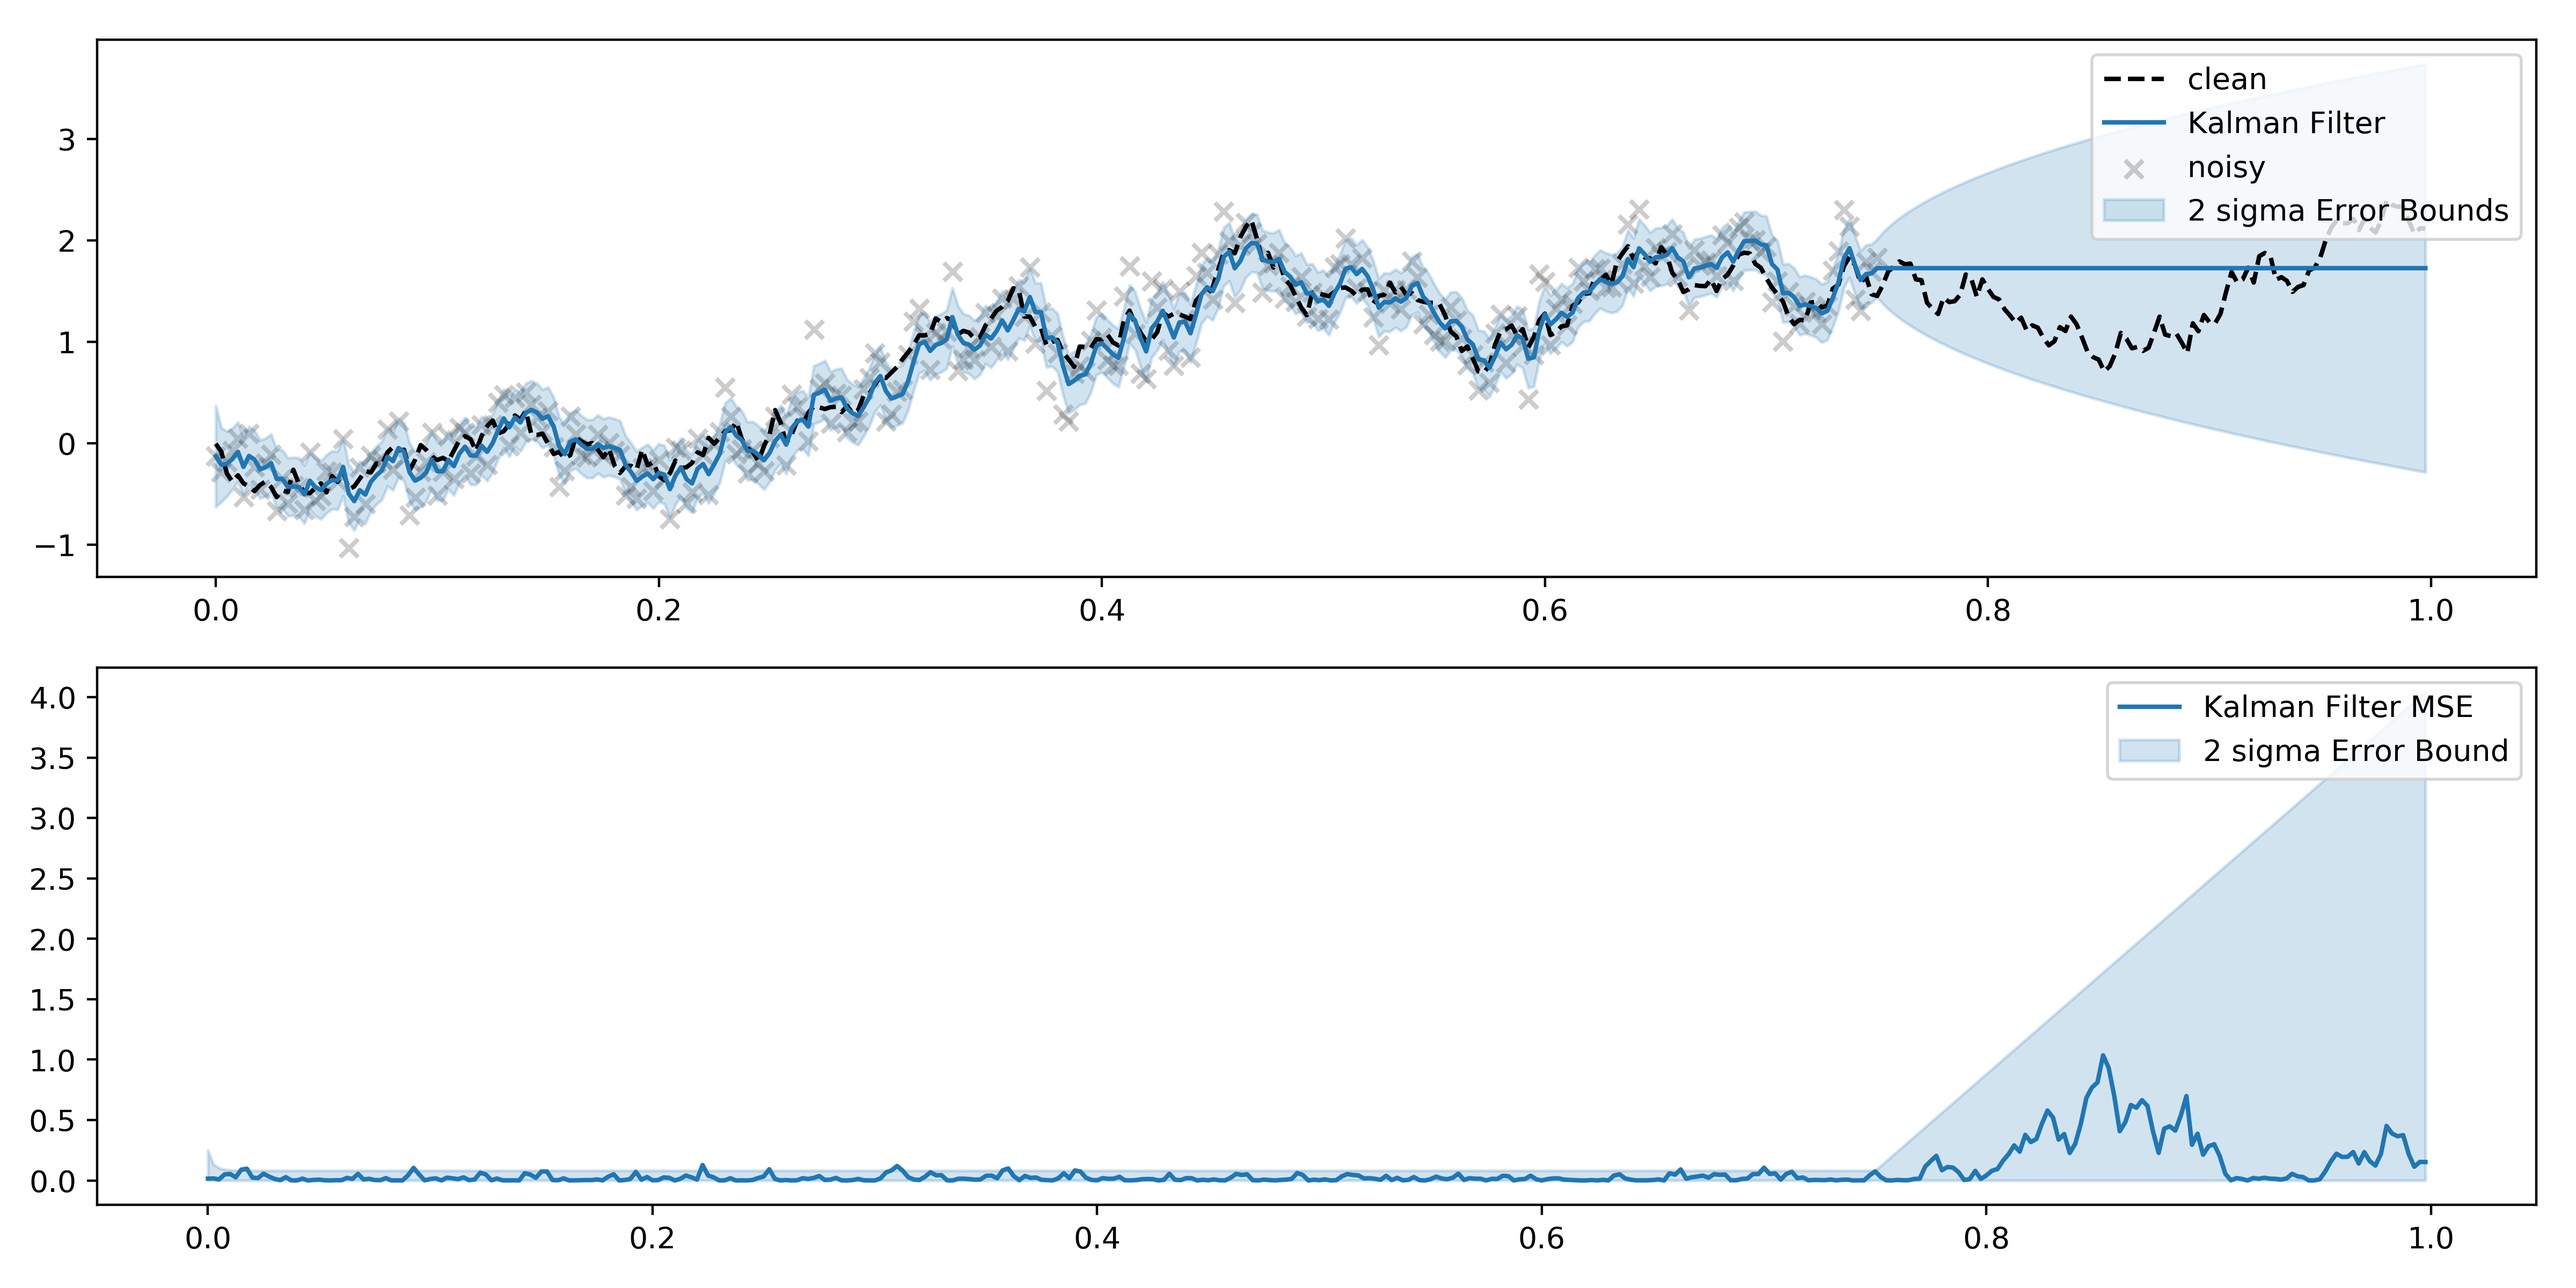
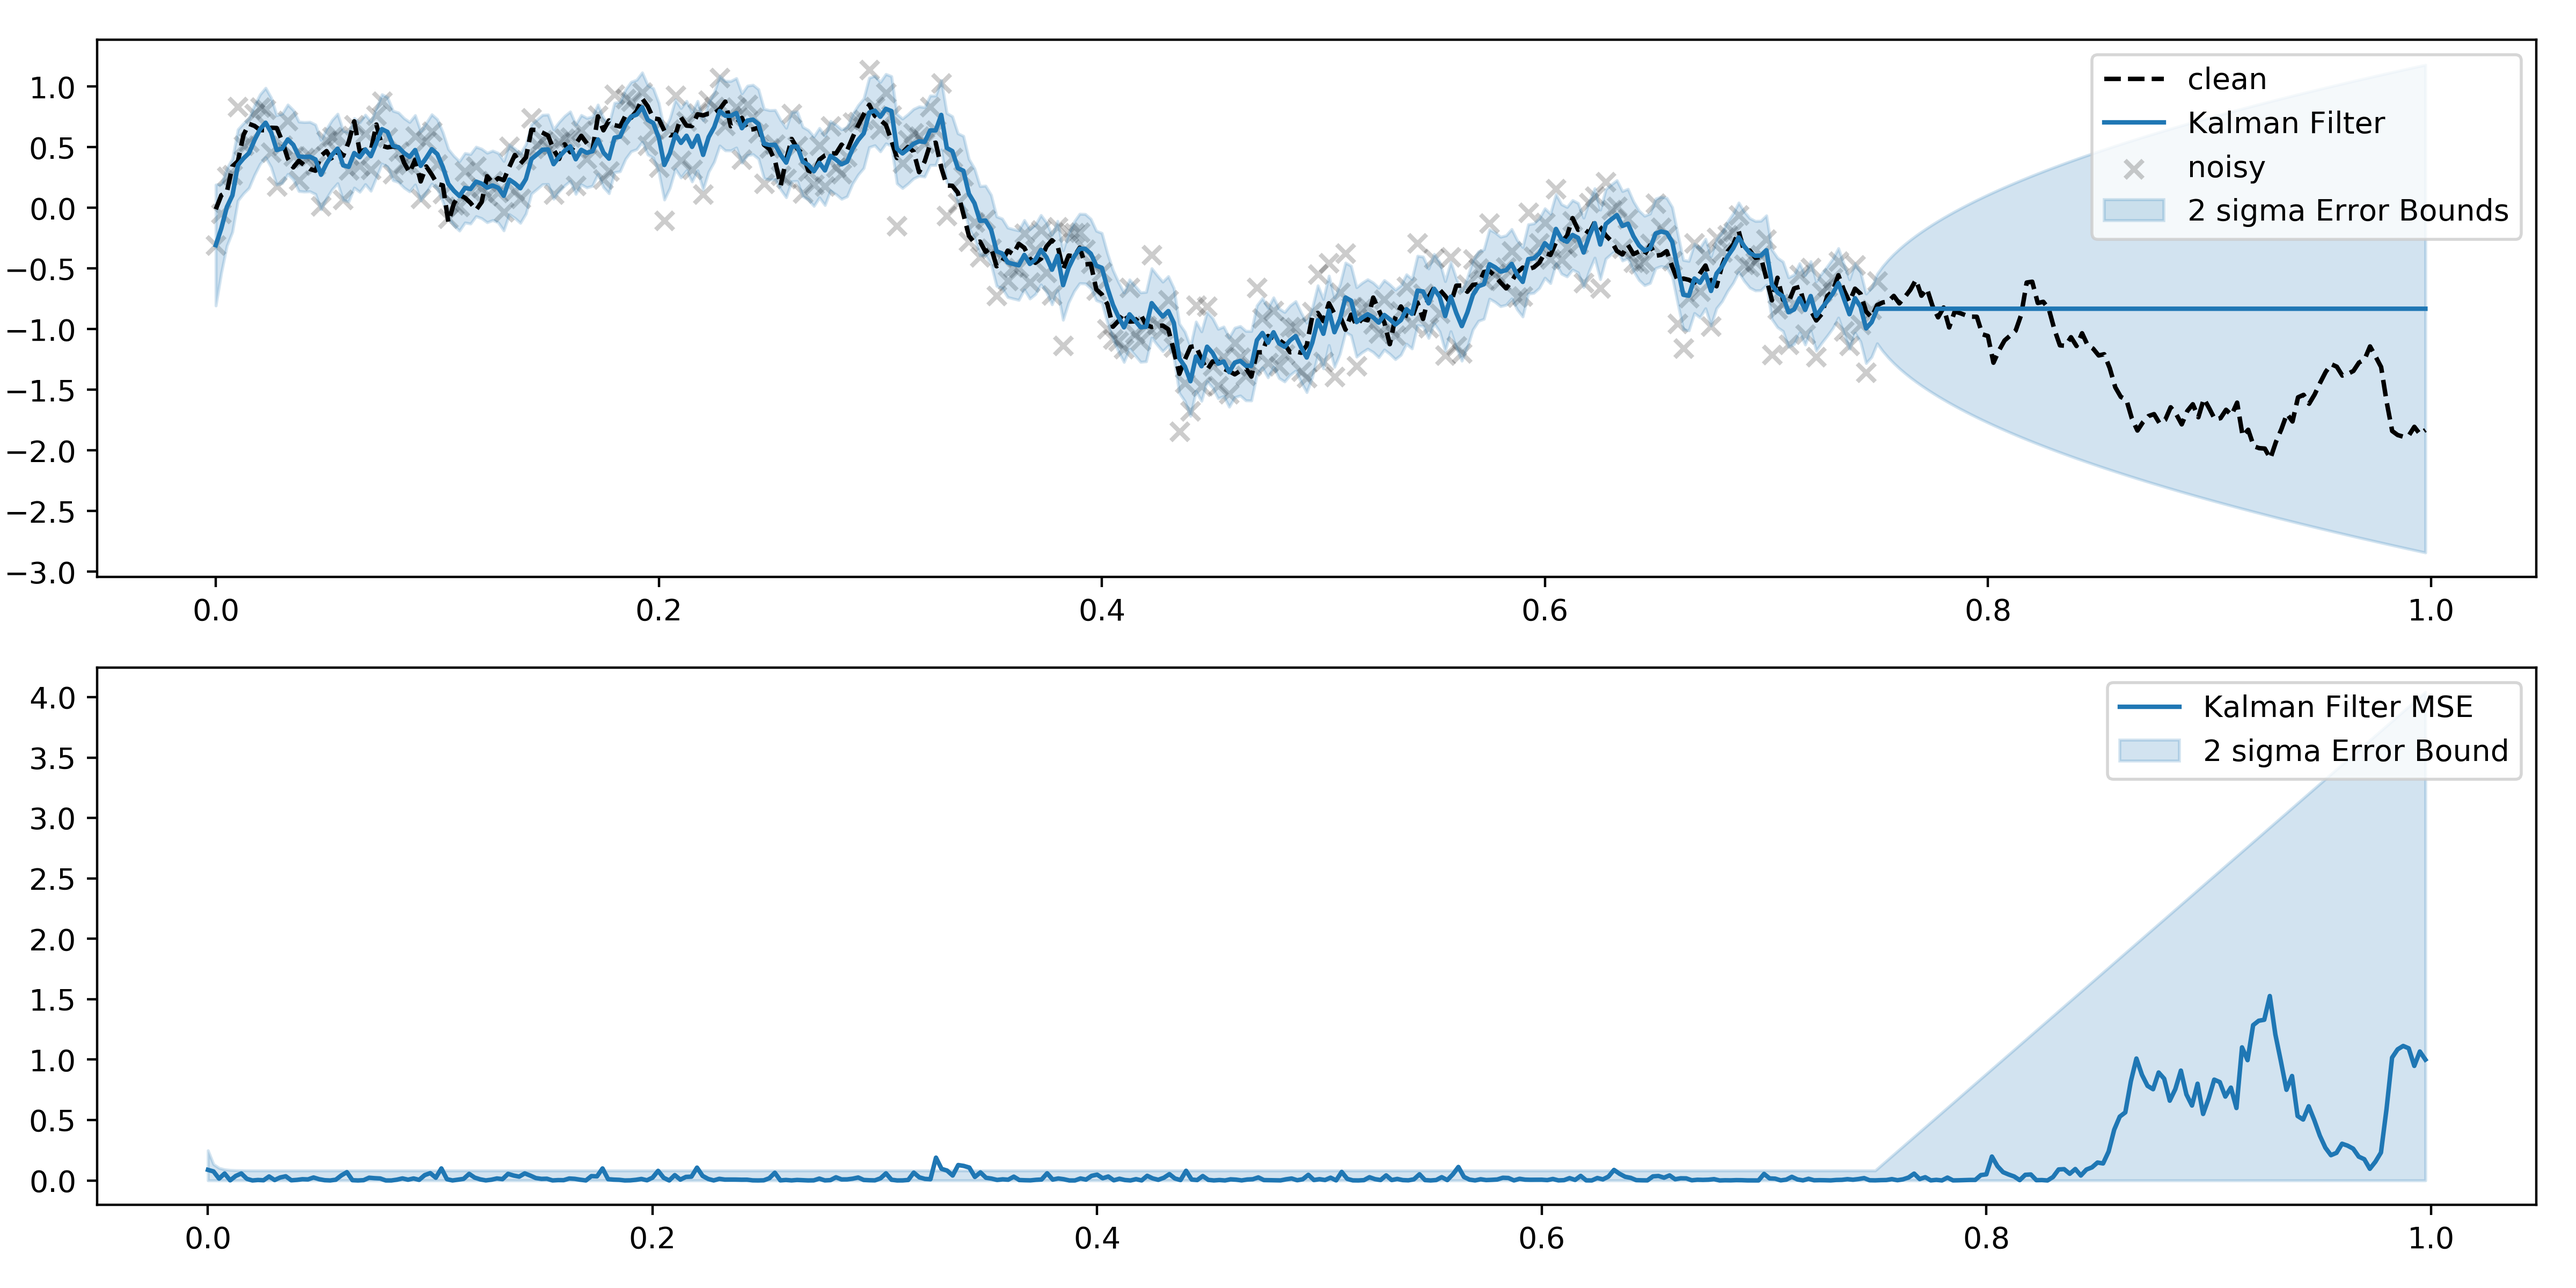
.

diff --git a/KalmanFilters.py b/KalmanFilters.py
@@ -5,8 +5,9 @@ import theano.tensor as T
 import theano.gradient as G
 
 import lasagne
-from lasagne.layers import InputLayer, DenseLayer, \
-                           get_output, get_all_params
+from lasagne.layers import InputLayer, ReshapeLayer, DenseLayer, \
+                           get_output, get_all_params, \
+                           get_all_param_values, set_all_param_values
 from lasagne.nonlinearities import rectify, linear
 from lasagne.objectives import squared_error
 from lasagne.regularization import regularize_network_params, l2 as L2
@@ -22,64 +23,64 @@ class BrownianFilter:
                  motion_transition      = None,
                  measurement_transition = None):
 
-       self.N = len(state.split(' '))
-       self.M = len(measurement.split(' '))
+        self.N = len(state.split(' '))
+        self.M = len(measurement.split(' '))
 
 
-       self.X, self.Z         = T.fvectors('X','Z')
-       self.P, self.Q, self.R = T.fmatrices('P','Q','R')
-       self.F, self.H         = T.matrices('F','H')
-       self.dt                = T.scalar('dt')
+        self.X, self.Z         = T.fvectors('X','Z')
+        self.P, self.Q, self.R = T.fmatrices('P','Q','R')
+        self.F, self.H         = T.matrices('F','H')
+        self.dt                = T.scalar('dt')
 
 
-       self.X_  = T.dot(self.F, self.X)
-       self.fX_ = G.jacobian(T.flatten(self.X_), self.X)
-       self.P_  = T.dot(T.dot(self.fX_, self.P), T.transpose(self.fX_)) + self.dt * self.Q
+        self.X_  = T.dot(self.F, self.X)
+        self.fX_ = G.jacobian(T.flatten(self.X_), self.X)
+        self.P_  = T.dot(T.dot(self.fX_, self.P), T.transpose(self.fX_)) + self.dt * self.Q
 
-       self.h = T.dot(self.H, self.X_)
-       self.y = self.Z - self.h
+        self.h = T.dot(self.H, self.X_)
+        self.y = self.Z - self.h
 
-       self.hX_ = G.jacobian(self.h, self.X_)
+        self.hX_ = G.jacobian(self.h, self.X_)
 
-       self.matrix_inv = T.nlinalg.MatrixInverse()
+        self.matrix_inv = T.nlinalg.MatrixInverse()
 
-       self.S = T.dot(T.dot(self.hX_, self.P_), T.transpose(self.hX_)) + self.R
-       self.K = T.dot(T.dot(self.P_, T.transpose(self.hX_)), self.matrix_inv(self.S))
+        self.S = T.dot(T.dot(self.hX_, self.P_), T.transpose(self.hX_)) + self.R
+        self.K = T.dot(T.dot(self.P_, T.transpose(self.hX_)), self.matrix_inv(self.S))
 
-       self.X__ = self.X_ + T.dot(self.K, self.y)
-       self.P__ = T.dot(T.identity_like(self.P) - self.K * self.hX_, self.P_)
+        self.X__ = self.X_ + T.dot(self.K, self.y)
+        self.P__ = T.dot(T.identity_like(self.P) - T.dot(self.K, self.hX_), self.P_)
 
 
-       self.prediction = theano.function(inputs  = [self.X,
-                                                    self.P,
-                                                    self.Q,
-                                                    self.F,
-                                                    self.dt],
-                                         outputs = [self.X_,
-                                                    self.P_],
-                                         allow_input_downcast = True)
+        self.prediction = theano.function(inputs  = [self.X,
+                                                     self.P,
+                                                     self.Q,
+                                                     self.F,
+                                                     self.dt],
+                                          outputs = [self.X_,
+                                                     self.P_],
+                                          allow_input_downcast = True)
 
-       self.update = theano.function(inputs  = [self.X,
-                                                self.Z,
-                                                self.P,
-                                                self.Q,
-                                                self.R,
-                                                self.F,
-                                                self.H,
-                                                self.dt],
-                                     outputs = [self.X__,
-                                                self.P__],
-                                     allow_input_downcast = True)
+        self.update = theano.function(inputs  = [self.X,
+                                                 self.Z,
+                                                 self.P,
+                                                 self.Q,
+                                                 self.R,
+                                                 self.F,
+                                                 self.H,
+                                                 self.dt],
+                                      outputs = [self.X__,
+                                                 self.P__],
+                                      allow_input_downcast = True)
 
-       if motion_transition == None:
-           self.motion_transition = np.eye(self.N)
-       else:
-           self.motion_transition = np.array(motion_transition)
+        if motion_transition == None:
+            self.motion_transition = np.eye(self.N)
+        else:
+            self.motion_transition = np.array(motion_transition)
 
-       if measurement_transition == None:
-           self.measurement_transition = np.eye(self.M)
-       else:
-           self.measurement_transition = np.array(motion_transition)
+        if measurement_transition == None:
+            self.measurement_transition = np.eye(self.M)
+        else:
+            self.measurement_transition = np.array(motion_transition)
 
 
     def __call__(self,
@@ -119,13 +120,14 @@ class AutoRegressiveModel:
                        shape     = (None, steps))
         for k in range(num_layers):
             l = DenseLayer(l,
-                           num_units    = 32,
+                           num_units    = num_units,
                            nonlinearity = rectify)
         l = DenseLayer(l,
                        num_units    = 1,
                        nonlinearity = linear)
 
-        self.x_ = get_output(l)
+        self.l_ = l
+        self.x_ = get_output(self.l_)
 
         self.f  = theano.function([self.X],
                                   self.x_,
@@ -162,3 +164,113 @@ class AutoRegressiveModel:
             test_error  = self.error(teX,teY)
 
             print k, train_error, test_error
+
+
+
+class AutoRegressiveExtendedKalmanFilter:
+    def __init__(self,
+                 steps      = 1,
+                 num_layers = 2,
+                 num_units  = 32,
+                 eps        = 1e-2):
+
+        self.X, self.Z         = T.fvectors('X','Z')
+        self.P, self.Q, self.R = T.fmatrices('P','Q','R')
+        self.dt                = T.scalar('dt')
+
+        self.ar = AutoRegressiveModel(steps      = steps,
+                                      num_layers = num_layers,
+                                      num_units  = num_units,
+                                      eps        = eps)
+
+        l = InputLayer(input_var = self.X,
+                       shape     = (steps,))
+        l = ReshapeLayer(l, shape = (1,steps,))
+
+        for k in range(num_layers):
+            l = DenseLayer(l,
+                           num_units    = num_units,
+                           nonlinearity = rectify)
+        l = DenseLayer(l,
+                       num_units    = 1,
+                       nonlinearity = linear)
+        l = ReshapeLayer(l, shape=(1,))
+
+        self.l_ = l
+        self.f_ = get_output(self.l_)
+
+        self.X_  = T.concatenate([self.f_, T.dot(T.eye(steps)[:-1], self.X)], axis=0)
+        self.fX_ = G.jacobian(self.X_.flatten(), self.X)
+        self.P_  = T.dot(T.dot(self.fX_, self.P), T.transpose(self.fX_)) + \
+                    T.dot(T.dot(T.eye(steps)[:,0:1], self.dt * self.Q), T.eye(steps)[0:1,:])
+
+        self.h = T.dot(T.eye(steps)[0:1], self.X_)
+        self.y = self.Z - self.h
+
+        self.hX_ = G.jacobian(self.h, self.X_)
+
+        self.matrix_inv = T.nlinalg.MatrixInverse()
+
+        self.S = T.dot(T.dot(self.hX_, self.P_), T.transpose(self.hX_)) + self.R
+        self.K = T.dot(T.dot(self.P_, T.transpose(self.hX_)), self.matrix_inv(self.S))
+
+        self.X__ = self.X_ + T.dot(self.K, self.y)
+        self.P__ = T.dot(T.identity_like(self.P) - T.dot(self.K, self.hX_), self.P_)
+
+
+        self.test_f = theano.function([self.X,
+                                       self.Z,
+                                       self.P,
+                                       self.Q,
+                                       self.R,
+                                       self.dt],
+                                       self.P__,
+                                       allow_input_downcast=True, on_unused_input='ignore')
+
+
+
+        self.prediction = theano.function(inputs  = [self.X,
+                                                     self.P,
+                                                     self.Q,
+                                                     self.dt],
+                                          outputs = [self.X_,
+                                                     self.P_],
+                                          allow_input_downcast = True)
+
+        self.update = theano.function(inputs  = [self.X,
+                                                 self.Z,
+                                                 self.P,
+                                                 self.Q,
+                                                 self.R,
+                                                 self.dt],
+                                      outputs = [self.X__,
+                                                 self.P__],
+                                      allow_input_downcast = True)
+
+
+    def fit(self,
+            time_series,
+            test_size = 0.4):
+
+        self.ar.fit(time_series,
+                    test_size = test_size)
+        set_all_param_values(self.l_, get_all_param_values(self.ar.l_))
+
+
+
+    def __call__(self,
+                 X, P, Z, Q, R, dt):
+        if np.all(np.isfinite(np.array(Z, dtype=np.float32))):
+            x_, p_ = self.update(X,
+                                 Z,
+                                 P,
+                                 Q,
+                                 R,
+                                 dt)
+        else:
+            x_, p_ = self.prediction(X,
+                                     P,
+                                     Q,
+                                     dt)
+
+        return x_, p_

diff --git a/testAutoRegressiveEKF.py b/testAutoRegressiveEKF.py
@@ -1,0 +1,50 @@
+import numpy as np
+import matplotlib.pyplot as plt
+from KalmanFilters import AutoRegressiveExtendedKalmanFilter
+
+t,b = np.loadtxt('mgdata.txt',delimiter=',')[::10].T
+dt = np.mean(np.diff(t))
+
+K = 10
+S = int(0.5 * len(b))
+E = -int(0.25 * len(b))
+ekf = AutoRegressiveExtendedKalmanFilter(K, eps=1e-2)
+ekf.fit(b[:S])
+
+q = 0.175
+r = 0.125
+
+Q = [[q * q]]
+R = [[r * r]]
+
+b_ = b + r * np.random.randn(len(b))
+
+x = np.zeros(K)
+p = np.eye(K)
+
+est_x = []
+est_p = []
+
+for j in range(len(b)):
+    x, p = ekf(x, p, [b_[j]], Q, R, dt)
+
+    est_x.append(x[0])
+    est_p.append(p[0,0])
+
+est_x = np.array(est_x)
+est_p = np.array(est_p)
+
+plt.figure(figsize=(12,3))
+plt.plot(t, b, 'k--', label='clean Mackey-Glass Series')
+plt.scatter(t, b_, c='k', marker='x', alpha=0.2, label='noisy')
+plt.plot(t, est_x, label='AREKF Estimate')
+plt.fill_between(t,
+                 est_x + 2.0 * np.sqrt(est_p),
+                 est_x - 2.0 * np.sqrt(est_p),
+                 color='C0', alpha=0.2, label='2 sigma Error Bounds')
+plt.xlim([400,700])
+plt.legend(loc='upper right')
+plt.tight_layout()
+plt.savefig('Results/AutoRegressiveEKF.png',
+            dpi=400)
+plt.show()

diff --git a/testARModel.py b/testARModel.py
@@ -10,7 +10,7 @@ S = int(0.5 * len(b))
 E = -int(0.25 * len(b))
 ar = AutoRegressiveModel(K, eps=1e-3)
 
-print ar.fit(b[:S])
+ar.fit(b[:S])
 
 test = np.array([b[S:E][i:i-K] for i in range(K)]).T
 res  = list(ar.f(test).reshape(-1))

diff --git a/README.md b/README.md
@@ -25,3 +25,10 @@ We can also forward predict which the plot shows. As this estimate is probabilis
 We can train an autoressive neural network to forward predict the next time series measurement as shown in the figure below.
 
 ![](https://github.com/JamesUnicomb/KaFiTh/blob/master/Results/AutoRegressiveModel.png)
+
+
+### Extended Kalman Filter with AutoRegressive Motion Model
+
+We can use the autoregressive model within an EKF framework to make better predictions about the next state of a time series.
+
+![](https://github.com/JamesUnicomb/KaFiTh/blob/master/Results/AutoRegressiveEKF.png)
